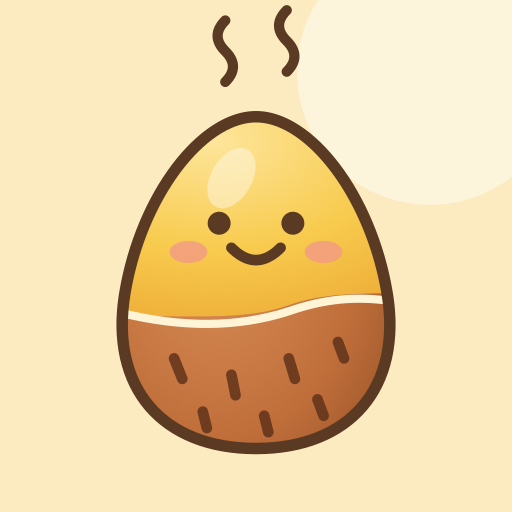
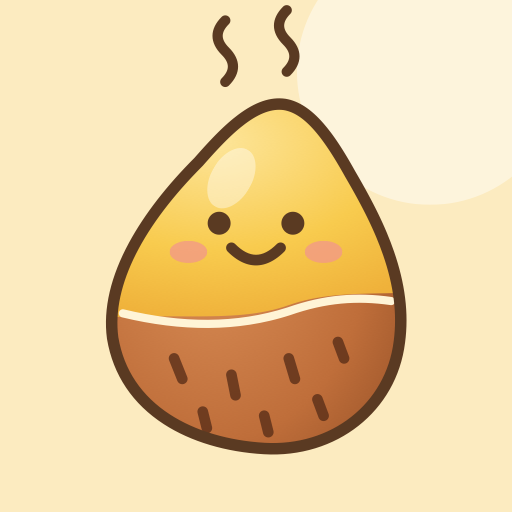
Make the sweet potato asymmetric with a soft tapered tip

Changed region(s): [[0.1875, 0.1875, 0.8125, 0.9062], [0.2812, 0.7812, 0.5, 0.9062]]

diff --git a/index.html b/index.html
@@ -110,7 +110,7 @@ details.prev pre{margin:0;padding:0 18px 16px;font-family:inherit;font-size:14px
       <feTurbulence type="fractalNoise" baseFrequency="0.04" numOctaves="2" seed="4" result="n"/>
       <feDisplacementMap in="SourceGraphic" in2="n" scale="2.4" xChannelSelector="R" yChannelSelector="G"/>
     </filter>
-    <clipPath id="bodyClip"><path d="M50 11C63 11 78 30 82 54C86 78 72 92 50 92C28 92 14 78 18 54C22 30 37 11 50 11Z"/></clipPath>
+    <clipPath id="bodyClip"><path d="M57 8C63 9 68 16 73 25C80 37 87 51 85 66C83 82 69 93 52 92C35 91 18 83 15 65C13 50 24 34 36 22C43 14 50 7 57 8Z"/></clipPath>
     <radialGradient id="gFlesh" cx="40%" cy="28%" r="72%"><stop offset="0" stop-color="#FDE59A"/><stop offset=".6" stop-color="#F8CB4E"/><stop offset="1" stop-color="#EFB13A"/></radialGradient>
     <radialGradient id="gSkin" cx="35%" cy="45%" r="75%"><stop offset="0" stop-color="#D88C55"/><stop offset=".7" stop-color="#BF6E3A"/><stop offset="1" stop-color="#A35A2D"/></radialGradient>
   </defs>
@@ -313,7 +313,7 @@ details.prev pre{margin:0;padding:0 18px 16px;font-family:inherit;font-size:14px
   // ---------- 地瓜插畫 ----------
   var LINE = '#5A3A22';
   // 地瓜：直立的水滴形，上尖下圓，上半黃肉、下半帶紋路的皮
-  var BODY = 'M50 11C63 11 78 30 82 54C86 78 72 92 50 92C28 92 14 78 18 54C22 30 37 11 50 11Z';
+  var BODY = 'M57 8C63 9 68 16 73 25C80 37 87 51 85 66C83 82 69 93 52 92C35 91 18 83 15 65C13 50 24 34 36 22C43 14 50 7 57 8Z';
   var FLESH = 'M0 0H100V52C88 56 72 52 58 57C44 62 28 58 0 61Z';
   var FACES = {
     smile: '<circle cx="41" cy="35" r="2.8" fill="'+LINE+'"/><circle cx="59" cy="35" r="2.8" fill="'+LINE+'"/><path d="M44 41q6 6 12 0" fill="none" stroke="'+LINE+'" stroke-width="2.6" stroke-linecap="round"/>',
